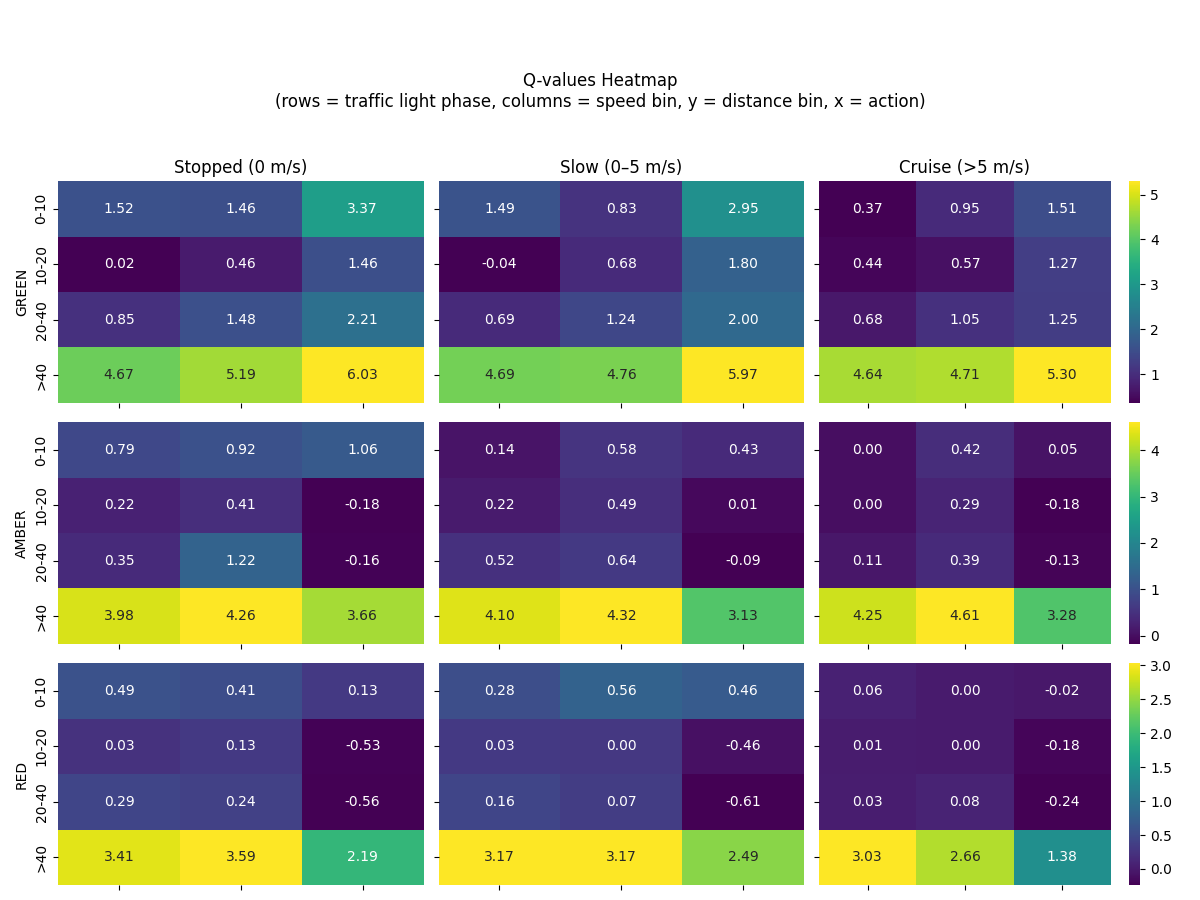
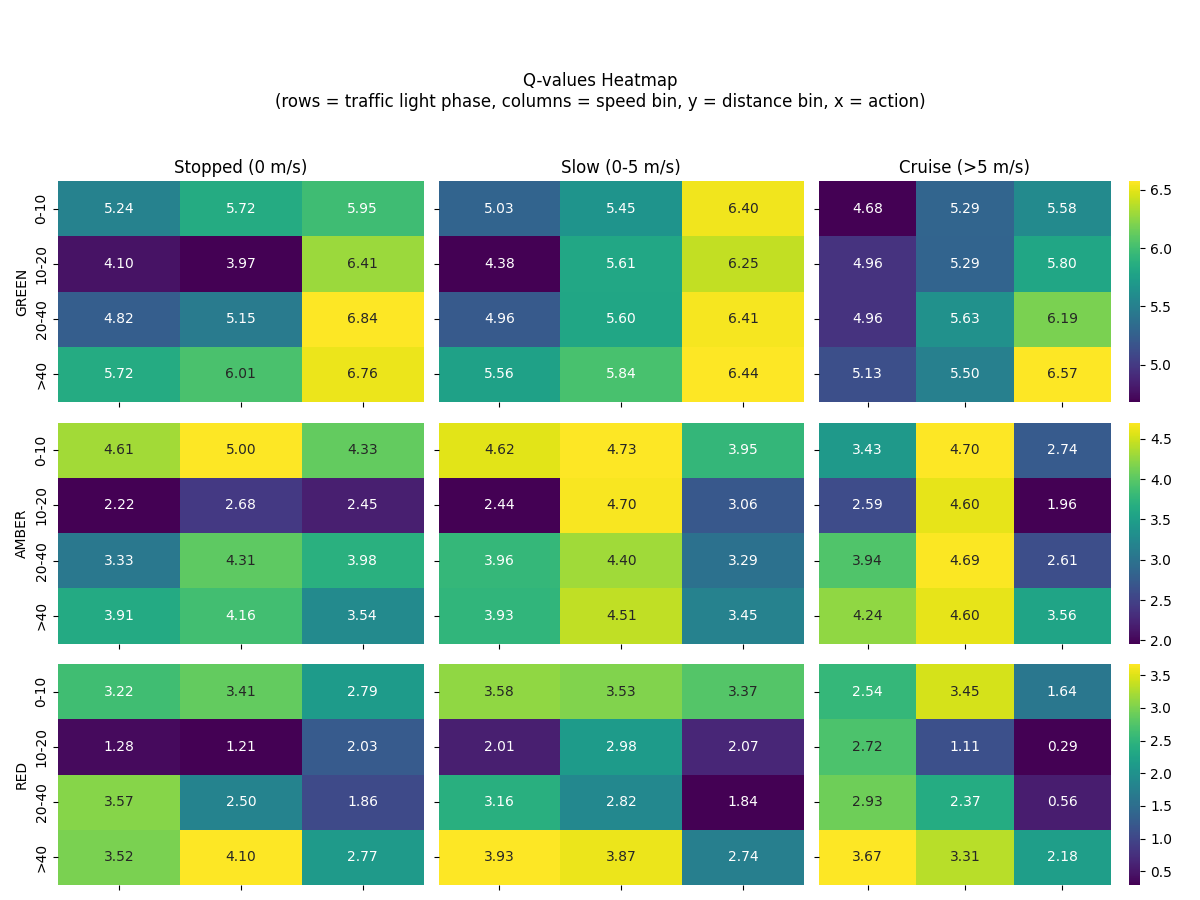
feat: 100 run simulation

diff --git a/src/simulation/batch.py b/src/simulation/batch.py
@@ -144,4 +144,4 @@ def main(num_runs: int = 100):
     )
 
 if __name__ == "__main__":
-    main(10)
+    main(100)
